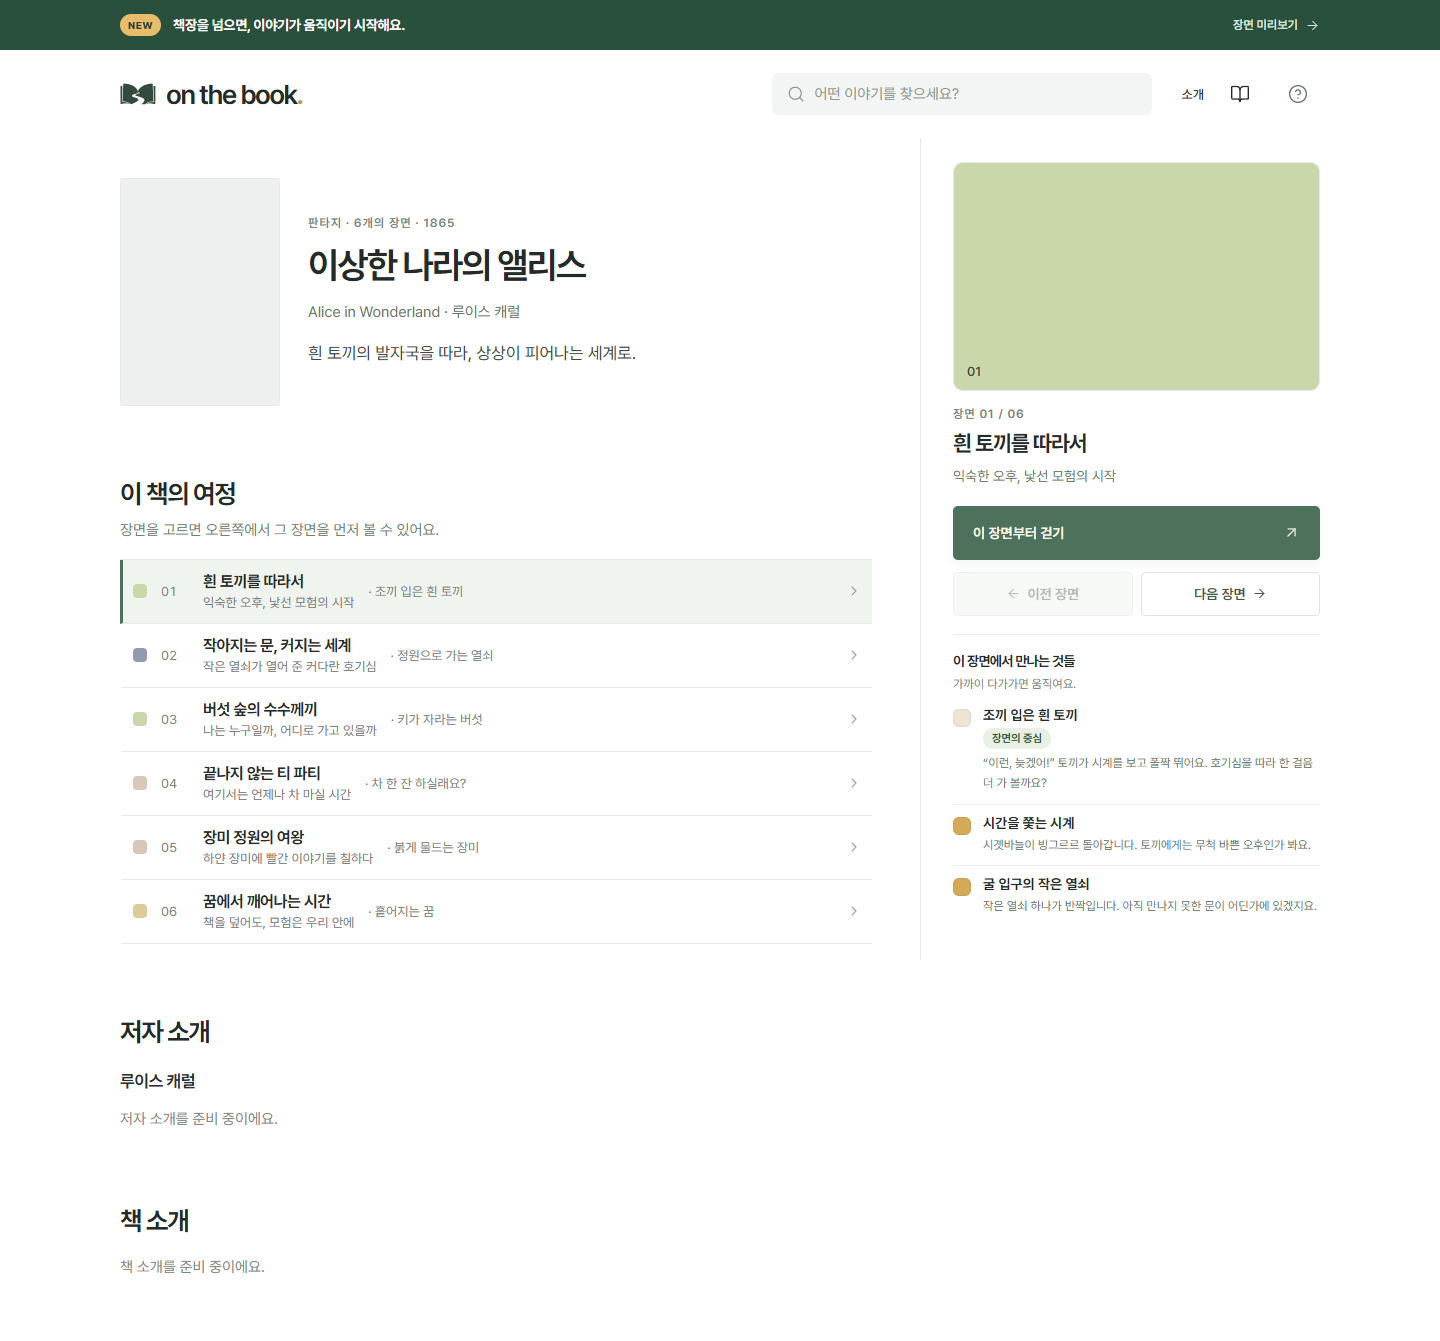
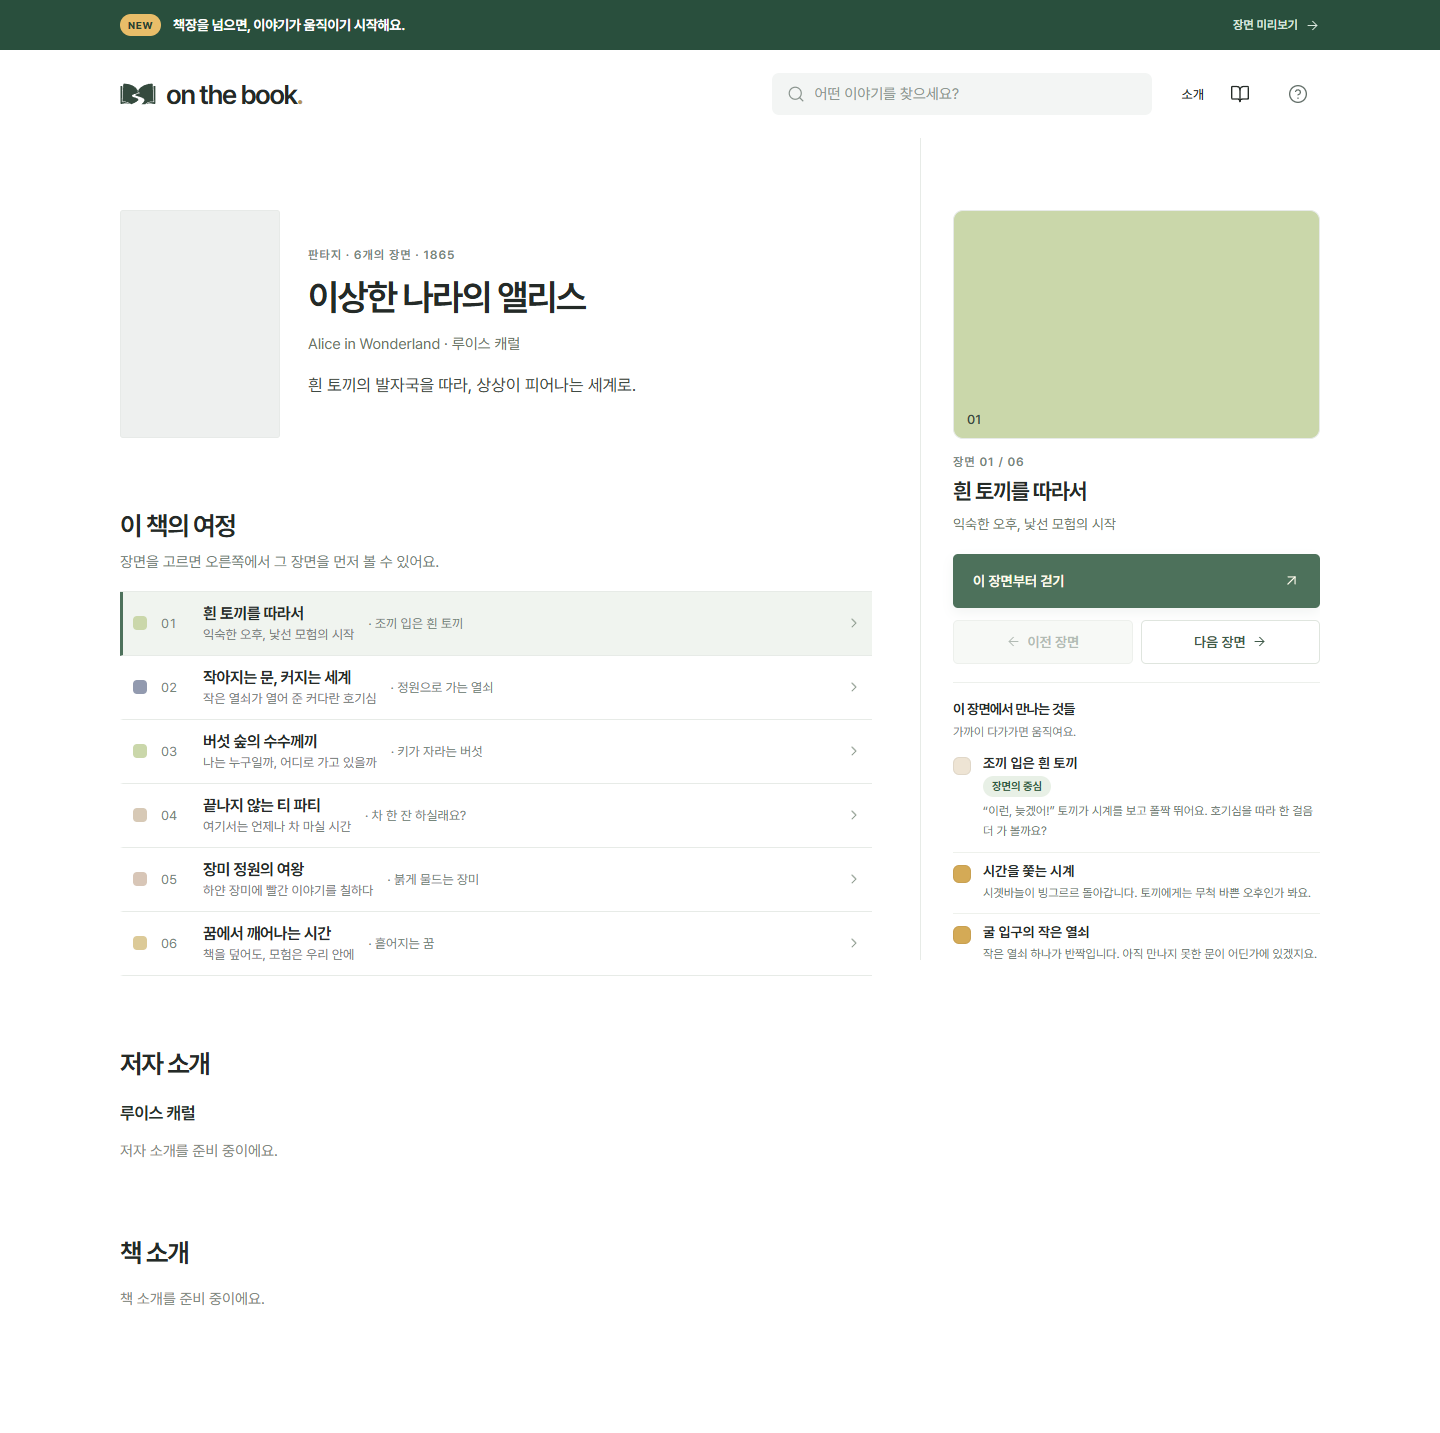
Give the book detail room above and below
Above 850px the hero now starts 72px under the pinned top, and the scene
panel's first line sits on the same offset, so the cover and the scene
image share a top edge on the first screen. The page ends 120px after the
last section and the panel keeps 48px at its foot.

On phones the page starts 44px under the header and keeps 64px between
the last section and the pinned bar, which now closes the page instead of
lifting at the end. The catalog check pins these offsets.

diff --git a/client/detail.css b/client/detail.css
@@ -1,10 +1,14 @@
 /* The book detail: a scrolling left column and a scene panel fixed at the screen's height. Phones get a scene sheet
    and a pinned bar. Type, gutters (.store-content) and section headings come from the bookshelf.
    The second track stays empty on purpose: the fixed panel sits over it, so the left column keeps its width. */
-.detail-page { display: grid; grid-template-columns: minmax(0, 1fr) 400px; column-gap: 48px; align-items: start; }
+.detail-page { --detail-space-top: 72px; display: grid; grid-template-columns: minmax(0, 1fr) 400px; column-gap: 48px; align-items: start; }
+/* Room above and below: the left column starts --detail-space-top under the pinned top, the same offset as the scene
+   panel's first line, so the cover and the scene image share a top edge; the page ends 120px after the last section.
+   Two classes outrank landing.css's .store-content padding at every width. */
+.detail-page.store-content { padding-top: var(--detail-space-top); padding-bottom: 120px; }
 .detail-page h1, .detail-page h2, .detail-page h3 { font-family: inherit; letter-spacing: -.05em; font-weight: 650; }
 .detail-main { min-width: 0; }
-.detail-hero { display: grid; grid-template-columns: 160px minmax(0, 1fr); gap: 28px; align-items: center; margin-top: 12px; }
+.detail-hero { display: grid; grid-template-columns: 160px minmax(0, 1fr); gap: 28px; align-items: center; }
 /* An uploaded cover fills its .catalog-cover slot through landing.css's `.catalog-cover img` rule. */
 .detail-cover { display: block; width: 160px; }
 .detail-copy { min-width: 0; }
@@ -49,7 +53,7 @@
    apart from the left column. Its right edge meets the .store-content box (1280px column, 40px gutters above
    850px), so its content lines up with the header's icons. --detail-top is the pinned top's height, measured by
    main.js; 138px is the default 50px ribbon plus the 88px header. Toasts and the curtain stay above it. */
-.scene-panel { position: fixed; top: var(--detail-top, 138px); bottom: 0; right: max(40px, calc((100% - 1280px) / 2 + 40px)); z-index: 4; width: 400px; overflow-y: auto; scrollbar-width: none; padding: 24px 0 24px 32px; border-left: 1px solid #e7ebe7; background: #fff; }
+.scene-panel { position: fixed; top: var(--detail-top, 138px); bottom: 0; right: max(40px, calc((100% - 1280px) / 2 + 40px)); z-index: 4; width: 400px; overflow-y: auto; scrollbar-width: none; padding: var(--detail-space-top) 0 48px 32px; border-left: 1px solid #e7ebe7; background: #fff; }
 /* Safari before 18.2 ignores scrollbar-width. The phone sheet below hides its scrollbar the same way. */
 .scene-panel::-webkit-scrollbar, .scene-sheet::-webkit-scrollbar { display: none; }
 /* Panel and sheet share their inner layout. The image slot is always 16:10; a thumbnail fills it (landing.css:
@@ -94,7 +98,10 @@
 }
 @media (max-width: 850px) {
   .detail-top { position: static; }
-  .detail-page { display: flex; flex-direction: column; align-items: stretch; }
+  .detail-page { --detail-space-top: 44px; display: flex; flex-direction: column; align-items: stretch; }
+  /* The last section keeps 64px above the pinned bar, and the bar closes the page, so it never lifts at the end. */
+  .detail-page.store-content { padding-bottom: 0; }
+  .detail-main { padding-bottom: 64px; }
   .scene-panel { display: none; }
   .journey-hint--wide { display: none; }
   .journey-hint--narrow { display: inline; }

diff --git a/docs/superpowers/specs/2026-09-28-detail-pages-design.md b/docs/superpowers/specs/2026-09-28-detail-pages-design.md
@@ -7,7 +7,7 @@
 - 처음에는 작품 상세(`?book=`)와 장면 상세(`?book=&scene=`) 두 페이지(두 뎁스)로 설계·구현했다(PR #3, 커밋 c60f7b6 까지). 같은 날 사용자가 밀리의서재 도서 상세처럼 **한 페이지 두 열**로 합치기로 결정했다. 왼쪽 열은 스크롤되는 작품 정보와 장면 목록, 오른쪽은 스크롤을 따라다니는 장면 패널이다.
 - 이 문서는 그 결정 이후의 최종 설계다. 두 뎁스 구현에서 바뀌는 점은 18절에 모았고, 구현 계획은 그 차이만 다룬다.
 - 그보다 앞서 정한 것(카드가 링크가 되는 홈 변경, 주소 규칙의 골격, `book-meta.js`·`detail.js` 분리, 표지·썸네일 표시)은 그대로 유효하다.
-- 2026-09-29 사용자 요청으로 두 가지를 더했다. 장면 패널과 시트의 스크롤바를 숨겼고(5절), '이 책의 여정' 다음에 저자 소개·책 소개 섹션과 이를 입력하는 관리자 칸을 넣었다(19절). 처음에는 빈 칸의 섹션을 숨겼으나, 같은 날 사용자 요청으로 섹션을 두고 '준비 중' 문구를 보이게 바꿨다. 이어서 왼쪽 열 섹션 사이의 구분선을 모두 없앴다(6절). 그다음 작품 상세에서 푸터와 헤더의 소개·책장으로·물음표를 빼 로고만 남기고, 장면 패널을 스크롤을 따라오는 sticky 대신 화면 높이에 고정했다(5절). 이어서 패널의 미리 읽기와 그 아래 글을 없애고 이전·다음을 CTA 아래 같은 너비의 버튼 둘로 옮겼으며(7절), 왼쪽 열의 원작 정보 섹션을 없앴다(6절). 마지막으로 작품 상세에도 홈과 같은 띠 배너와 헤더(로고·검색·소개·책장·이용 방법)를 두어 850px 초과에서 위에 고정하고, 장면 패널은 카드를 벗고 그 아래부터 화면 끝까지 채우며 왼쪽 열과는 선 하나로 나눴다(5절).
+- 2026-09-29 사용자 요청으로 두 가지를 더했다. 장면 패널과 시트의 스크롤바를 숨겼고(5절), '이 책의 여정' 다음에 저자 소개·책 소개 섹션과 이를 입력하는 관리자 칸을 넣었다(19절). 처음에는 빈 칸의 섹션을 숨겼으나, 같은 날 사용자 요청으로 섹션을 두고 '준비 중' 문구를 보이게 바꿨다. 이어서 왼쪽 열 섹션 사이의 구분선을 모두 없앴다(6절). 그다음 작품 상세에서 푸터와 헤더의 소개·책장으로·물음표를 빼 로고만 남기고, 장면 패널을 스크롤을 따라오는 sticky 대신 화면 높이에 고정했다(5절). 이어서 패널의 미리 읽기와 그 아래 글을 없애고 이전·다음을 CTA 아래 같은 너비의 버튼 둘로 옮겼으며(7절), 왼쪽 열의 원작 정보 섹션을 없앴다(6절). 이어서 작품 상세에도 홈과 같은 띠 배너와 헤더(로고·검색·소개·책장·이용 방법)를 두어 850px 초과에서 위에 고정하고, 장면 패널은 카드를 벗고 그 아래부터 화면 끝까지 채우며 왼쪽 열과는 선 하나로 나눴다(5절). 마지막으로 페이지 위아래 여백을 넓혔다(6절).
 
 ## 1. 배경과 목표
 
@@ -113,7 +113,7 @@ main.detail-page.store-content#main-content[data-view="book"]
 ```
 
 - 1101px 이상: `grid-template-columns: minmax(0, 1fr) 400px`, 열 간격 48px. 851~1100px: 오른쪽 열 340px, 간격 32px. 850px 이하: 한 열. `.store-content` 로 홈과 같은 1280px 폭과 좌우 여백을 쓴다.
-- 오른쪽 `aside.scene-panel` 은 `position: fixed; top: var(--detail-top, 138px); bottom: 0` 이다. 고정된 윗부분(`.detail-top`) 바로 아래에서 화면 아래 끝까지 채우고, 페이지 맨 위에서 끝까지 스크롤해도 같은 자리에 있다. 카드 모양(사방 테두리·모서리)은 없고, 왼쪽 1px 선(`#e7ebe7`) 하나로 왼쪽 열과 나눈다. 흰 배경, 안쪽 여백은 위아래 24px·왼쪽 32px·오른쪽 0 이다(2026-09-29 사용자 요청. 그 전에는 처음에 `position: sticky` 로 따라다니다가, 위아래 24px 여백을 둔 고정 카드였다).
+- 오른쪽 `aside.scene-panel` 은 `position: fixed; top: var(--detail-top, 138px); bottom: 0` 이다. 고정된 윗부분(`.detail-top`) 바로 아래에서 화면 아래 끝까지 채우고, 페이지 맨 위에서 끝까지 스크롤해도 같은 자리에 있다. 카드 모양(사방 테두리·모서리)은 없고, 왼쪽 1px 선(`#e7ebe7`) 하나로 왼쪽 열과 나눈다. 흰 배경, 안쪽 여백은 위 `--detail-space-top`(72px)·아래 48px·왼쪽 32px·오른쪽 0 이다(6절의 위아래 여백)(2026-09-29 사용자 요청. 그 전에는 처음에 `position: sticky` 로 따라다니다가, 위아래 24px 여백을 둔 고정 카드였다).
   - `--detail-top` 은 `setupDetail()` 이 `ResizeObserver` 로 잰 `.detail-top` 높이를 `.detail-page` 에 적은 값이다. 기본값 138px 은 띠 배너 50px 과 헤더 88px 을 더한 값이다.
   - 오른쪽 끝은 `.store-content` 콘텐츠 상자의 오른쪽 끝, 곧 헤더 아이콘 줄의 오른쪽 끝에 맞춘다(`right: max(40px, calc((100% - 1280px) / 2 + 40px))`, 851px 이상의 좌우 여백 40px). 폭은 격자의 오른쪽 열과 같은 400px(1100px 이하 340px)이고, 격자의 오른쪽 열은 비워 둬서 왼쪽 열 폭은 그대로다.
   - `z-index: 4` 로 `.detail-top`(6)·알림(100)·커튼(1000) 아래에 둔다. 패널이 화면보다 길면 패널 안에서만 스크롤되고, 스크롤바는 보이지 않게 숨긴다(`scrollbar-width: none`, 사파리용 `::-webkit-scrollbar`).
@@ -125,7 +125,12 @@ main.detail-page.store-content#main-content[data-view="book"]
 
 `client/detail.js` 의 `bookDetail({ book, chapter, library, progress, preview })` 가 페이지 전체(왼쪽 열 + 패널 + 하단 바 + 상태 문구)를 돌려준다. `chapter` 는 선택된 장면이다.
 
-왼쪽 열의 섹션(히어로, 이 책의 여정, 저자 소개, 책 소개) 사이에는 구분선이 없고 여백으로만 나눈다. 섹션 위 여백은 70px(600px 이하 58px)다. 여정 목록의 행 구분선과 장면 패널 안의 구분선은 그대로 둔다(2026-09-29 사용자 요청).
+왼쪽 열의 섹션(히어로, 이 책의 여정, 저자 소개, 책 소개) 사이에는 구분선이 없고 여백으로만 나눈다. 섹션 위 여백은 70px(600px 이하 58px)다.
+
+페이지 위아래 여백(2026-09-29 사용자 요청, "상단과 하단에 충분한 여백으로 시각적 안정감")
+- 851px 이상: 고정된 윗부분(`.detail-top`) 아래 72px 에서 히어로가 시작한다(`.detail-page` 의 `--detail-space-top`, 히어로의 `margin-top` 은 없앴다). 장면 패널의 안쪽 위 여백도 같은 변수라, 첫 화면에서 표지와 장면 이미지의 윗선이 맞는다. 마지막 섹션 뒤에는 120px, 패널 안쪽 아래는 48px 이다.
+- 850px 이하: 위 44px. 마지막 섹션과 하단 고정 바 사이는 64px(`.detail-main` 의 아래 여백)이고, `.detail-page` 의 아래 여백은 0 이라 페이지 끝에서도 바가 화면 바닥에 붙어 있다.
+- `.detail-page.store-content` 두 클래스로 써서 `landing.css` 의 `.store-content` 여백을 모든 폭에서 이긴다. 좌우 여백은 `.store-content` 그대로다. 여정 목록의 행 구분선과 장면 패널 안의 구분선은 그대로 둔다(2026-09-29 사용자 요청).
 
 히어로 `.detail-hero`
 - 왼쪽: `bookCover(book)` 자리(`.catalog-cover.image-placeholder`, 2:2.85). 표지가 등록되어 있으면 그 `<img>`(`alt=""`), 없으면 `role="img" aria-label="표지 이미지 준비 중"` 인 빈 자리. 데스크톱 160px, 600px 이하 112px, 370px 이하에서는 위로 올라가 가운데 130px.
